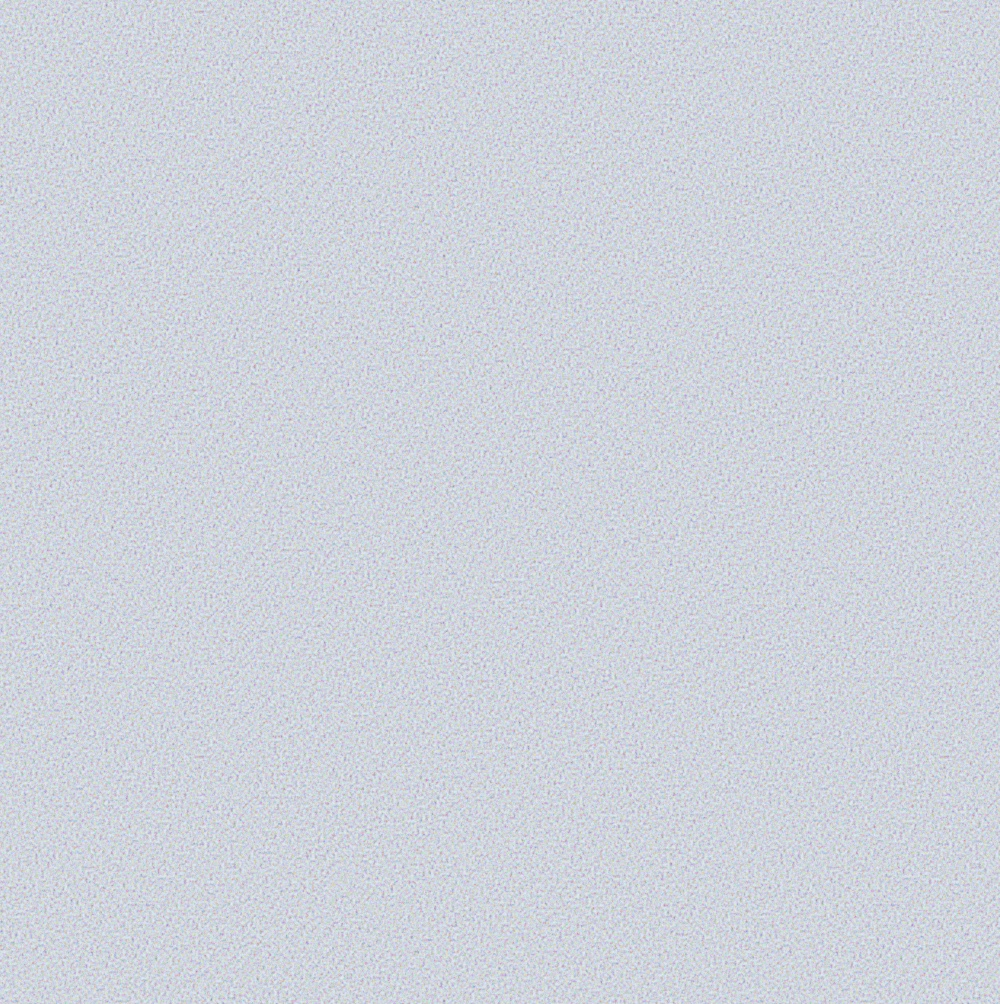
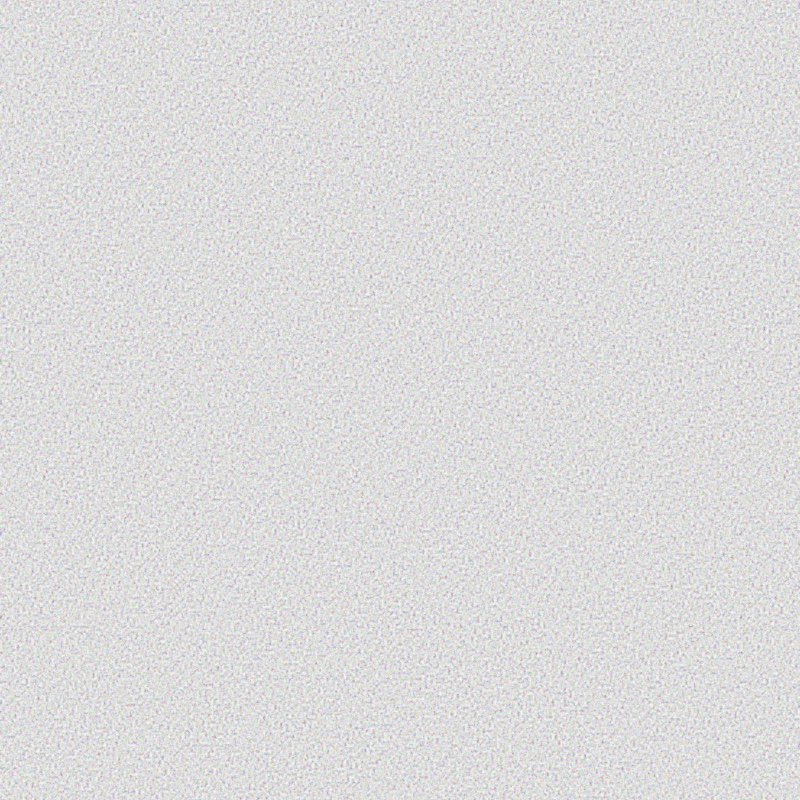
added readme and cleanup

Changed region(s): [[0.0, 0.0, 1.0, 1.0]]

diff --git a/public/index.html b/public/index.html
@@ -1,21 +1,17 @@
 <!DOCTYPE html>
 <html lang="en">
-  <head>
-    <meta charset="utf-8" />
-    <link rel="icon" href="%PUBLIC_URL%/favicon.ico" />
-    <meta name="viewport" content="width=device-width, initial-scale=1" />
-    <meta name="theme-color" content="#000000" />
-    <meta
-      name="description"
-      content="Web site created using create-react-app"
-    />
-    <link rel="apple-touch-icon" href="%PUBLIC_URL%/logo192.png" />
-    <!--
+	<head>
+		<meta charset="utf-8" />
+		<meta name="viewport" content="width=device-width, initial-scale=1" />
+		<meta name="theme-color" content="#000000" />
+		<meta name="description" content="Web site created using create-react-app" />
+		<link rel="apple-touch-icon" href="%PUBLIC_URL%/logo192.png" />
+		<!--
       manifest.json provides metadata used when your web app is installed on a
       user's mobile device or desktop. See https://developers.google.com/web/fundamentals/web-app-manifest/
     -->
-    <link rel="manifest" href="%PUBLIC_URL%/manifest.json" />
-    <!--
+		<link rel="manifest" href="%PUBLIC_URL%/manifest.json" />
+		<!--
       Notice the use of %PUBLIC_URL% in the tags above.
       It will be replaced with the URL of the `public` folder during the build.
       Only files inside the `public` folder can be referenced from the HTML.
@@ -24,12 +20,12 @@
       work correctly both with client-side routing and a non-root public URL.
       Learn how to configure a non-root public URL by running `npm run build`.
     -->
-    <title>React App</title>
-  </head>
-  <body>
-    <noscript>You need to enable JavaScript to run this app.</noscript>
-    <div id="root"></div>
-    <!--
+		<title>Todo List</title>
+	</head>
+	<body>
+		<noscript>You need to enable JavaScript to run this app.</noscript>
+		<div id="root"></div>
+		<!--
       This HTML file is a template.
       If you open it directly in the browser, you will see an empty page.
 
@@ -39,5 +35,5 @@
       To begin the development, run `npm start` or `yarn start`.
       To create a production bundle, use `npm run build` or `yarn build`.
     -->
-  </body>
+	</body>
 </html>

diff --git a/src/index.css b/src/index.css
@@ -33,7 +33,7 @@ body {
 	mix-blend-mode: color-burn;
 	opacity: 0.2;
 	filter: contrast(500%) brightness(60%) grayscale(100%);
-	background: radial-gradient(farthest-corner at -50% -50%, rgba(82, 80, 87, 0.6), rgba(72, 72, 82, 0.75)), url(./assets/img/noise2.jpg);
+	background: radial-gradient(farthest-corner at -50% -50%, rgba(82, 80, 87, 0.6), rgba(72, 72, 82, 0.75)), url(./assets/img/noise.jpg);
 	background-size: auto, 400px;
 }
 
@@ -42,7 +42,7 @@ body {
 	opacity: 1;
 	mix-blend-mode: color-dodge;
 	filter: contrast(500%) brightness(60%) grayscale(100%);
-	background: radial-gradient(farthest-corner at -50% -50%, rgba(82, 80, 87, 0.25), rgba(72, 72, 82, 0.75)), url(./assets/img/noise2.jpg);
+	background: radial-gradient(farthest-corner at -50% -50%, rgba(82, 80, 87, 0.25), rgba(72, 72, 82, 0.75)), url(./assets/img/noise.jpg);
 	background-size: auto, 400px;
 }
 

diff --git a/README.md b/README.md
@@ -1,70 +1,73 @@
-# Getting Started with Create React App
+# Frontend Mentor - Todo app solution
 
-This project was bootstrapped with [Create React App](https://github.com/facebook/create-react-app).
+This is a solution to the [Todo app challenge on Frontend Mentor](https://www.frontendmentor.io/challenges/todo-app-Su1_KokOW). Frontend Mentor challenges help you improve your coding skills by building realistic projects. 
 
-## Available Scripts
+## Table of contents
 
-In the project directory, you can run:
+- [Overview](#overview)
+  - [The challenge](#the-challenge)
+  - [Screenshot](#screenshot)
+  - [Links](#links)
+- [My process](#my-process)
+  - [Built with](#built-with)
+  - [What I learned](#what-i-learned)
+  - [Continued development](#continued-development)
+  - [Useful resources](#useful-resources)
+- [Author](#author)
 
-### `npm start`
+## Overview
 
-Runs the app in the development mode.\
-Open [http://localhost:3000](http://localhost:3000) to view it in your browser.
+### The challenge
 
-The page will reload when you make changes.\
-You may also see any lint errors in the console.
+Users should be able to:
 
-### `npm test`
+- View the optimal layout for the app depending on their device's screen size
+- See hover states for all interactive elements on the page
+- Add new todos to the list
+- Mark todos as complete
+- Delete todos from the list
+- Filter by all/active/complete todos
+- Clear all completed todos
+- Toggle light and dark mode
+- **Bonus**: Drag and drop to reorder items on the list - DONE
+- **Bonus**: delete each todo item individually - DONE
+- **Bonus**: save the list and his state in localhost - DONE
 
-Launches the test runner in the interactive watch mode.\
-See the section about [running tests](https://facebook.github.io/create-react-app/docs/running-tests) for more information.
+### Screenshot
 
-### `npm run build`
+![](./screenshot.jpg)
 
-Builds the app for production to the `build` folder.\
-It correctly bundles React in production mode and optimizes the build for the best performance.
+### Links
 
-The build is minified and the filenames include the hashes.\
-Your app is ready to be deployed!
+- Solution URL: [Github](https://github.com/remyboire/todolist)
+- Live Site URL: [Netlify](https://remyboire-todolist.netlify.app/)
 
-See the section about [deployment](https://facebook.github.io/create-react-app/docs/deployment) for more information.
+## My process
 
-### `npm run eject`
+### Built with
 
-**Note: this is a one-way operation. Once you `eject`, you can't go back!**
+- React
+- Tailwind
+- Framer-motion
 
-If you aren't satisfied with the build tool and configuration choices, you can `eject` at any time. This command will remove the single build dependency from your project.
 
-Instead, it will copy all the configuration files and the transitive dependencies (webpack, Babel, ESLint, etc) right into your project so you have full control over them. All of the commands except `eject` will still work, but they will point to the copied scripts so you can tweak them. At this point you're on your own.
+### What I learned
 
-You don't have to ever use `eject`. The curated feature set is suitable for small and middle deployments, and you shouldn't feel obligated to use this feature. However we understand that this tool wouldn't be useful if you couldn't customize it when you are ready for it.
+This project was nice to learn more about framer-motion wich I found really amazing. I love adding a lot of motion to this project.
+It was also the first time I used tailwind and I'm blown away by the simplicity of the framework. I only used css to style the checkbox as it seemed to be more efficient but I could have use tailwind as well. I also change the background to something a bit more personal.
 
-## Learn More
+### Continued development
 
-You can learn more in the [Create React App documentation](https://facebook.github.io/create-react-app/docs/getting-started).
+I would love to add a pan option like in iOs to delete items from the list. I saw it would be possible with framer-motion, it would be nice to take some time to look at it.
 
-To learn React, check out the [React documentation](https://reactjs.org/).
+### Useful resources
 
-### Code Splitting
+- [Tailwindcss](https://tailwindcss.com/)
+- [framer-motion](https://www.framer.com/docs/) 
 
-This section has moved here: [https://facebook.github.io/create-react-app/docs/code-splitting](https://facebook.github.io/create-react-app/docs/code-splitting)
 
-### Analyzing the Bundle Size
+## Author
 
-This section has moved here: [https://facebook.github.io/create-react-app/docs/analyzing-the-bundle-size](https://facebook.github.io/create-react-app/docs/analyzing-the-bundle-size)
-
-### Making a Progressive Web App
-
-This section has moved here: [https://facebook.github.io/create-react-app/docs/making-a-progressive-web-app](https://facebook.github.io/create-react-app/docs/making-a-progressive-web-app)
-
-### Advanced Configuration
-
-This section has moved here: [https://facebook.github.io/create-react-app/docs/advanced-configuration](https://facebook.github.io/create-react-app/docs/advanced-configuration)
-
-### Deployment
-
-This section has moved here: [https://facebook.github.io/create-react-app/docs/deployment](https://facebook.github.io/create-react-app/docs/deployment)
-
-### `npm run build` fails to minify
-
-This section has moved here: [https://facebook.github.io/create-react-app/docs/troubleshooting#npm-run-build-fails-to-minify](https://facebook.github.io/create-react-app/docs/troubleshooting#npm-run-build-fails-to-minify)
+- Website - [Rémy Boiré](https://remy.boire.dev/?mtm_campaign=todo-list)
+- Frontend Mentor - [@remyboire](https://www.frontendmentor.io/profile/remyboire)
+- Twitter - [@remyboire](https://www.twitter.com/remyboire)
